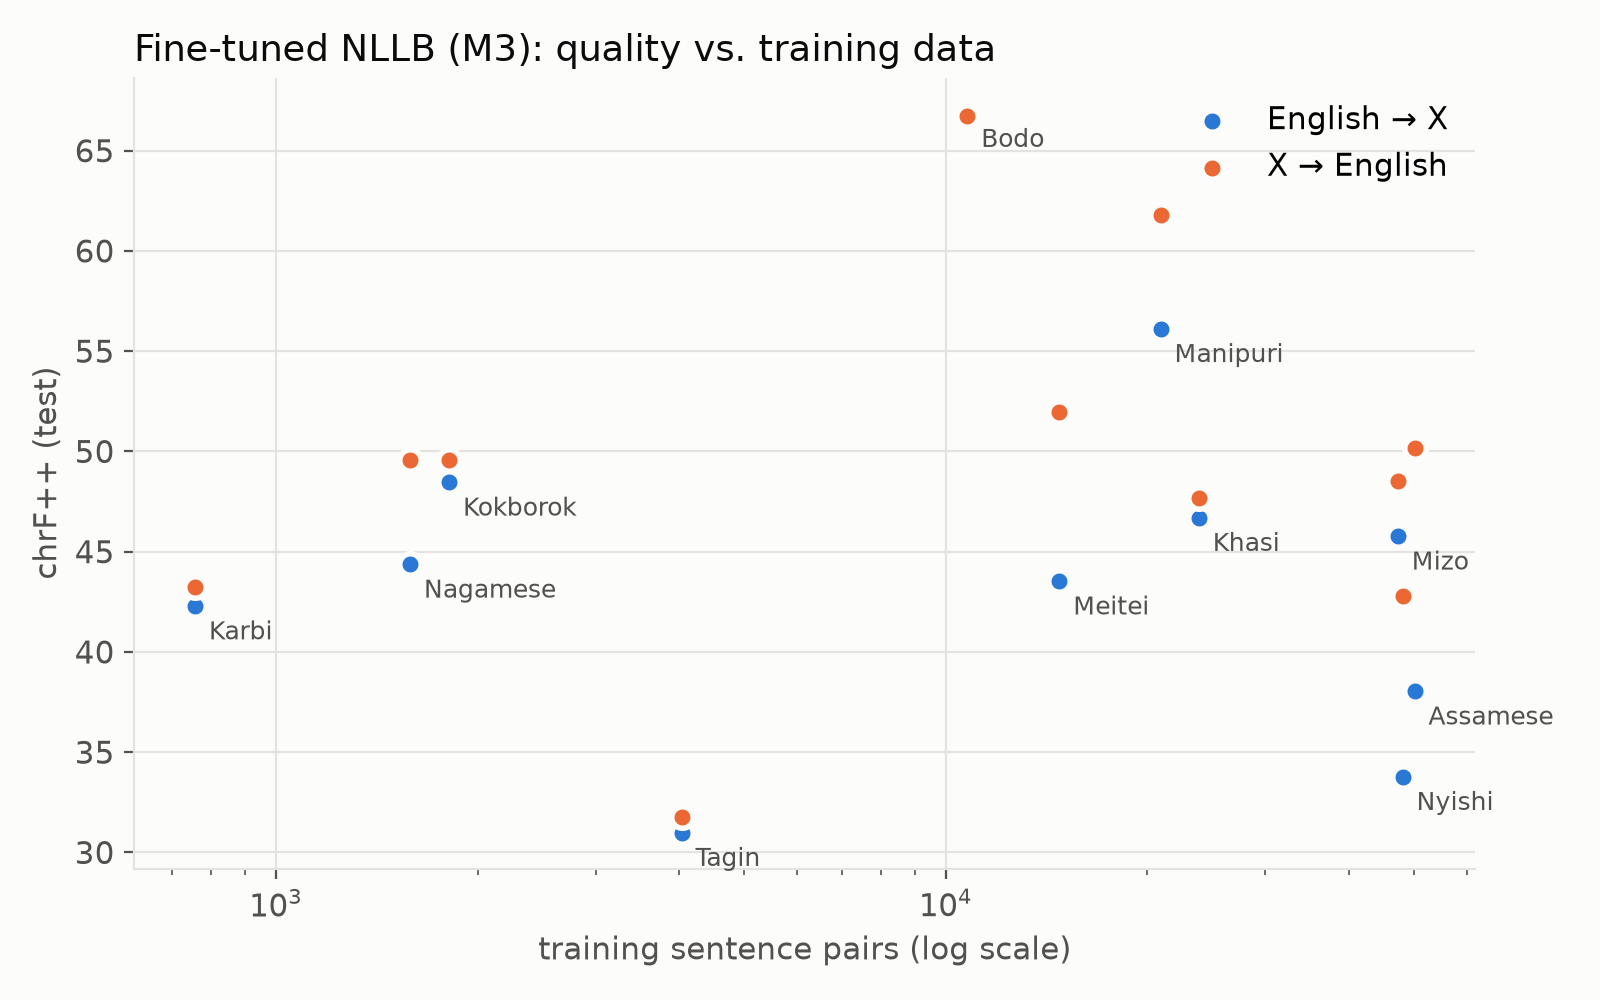
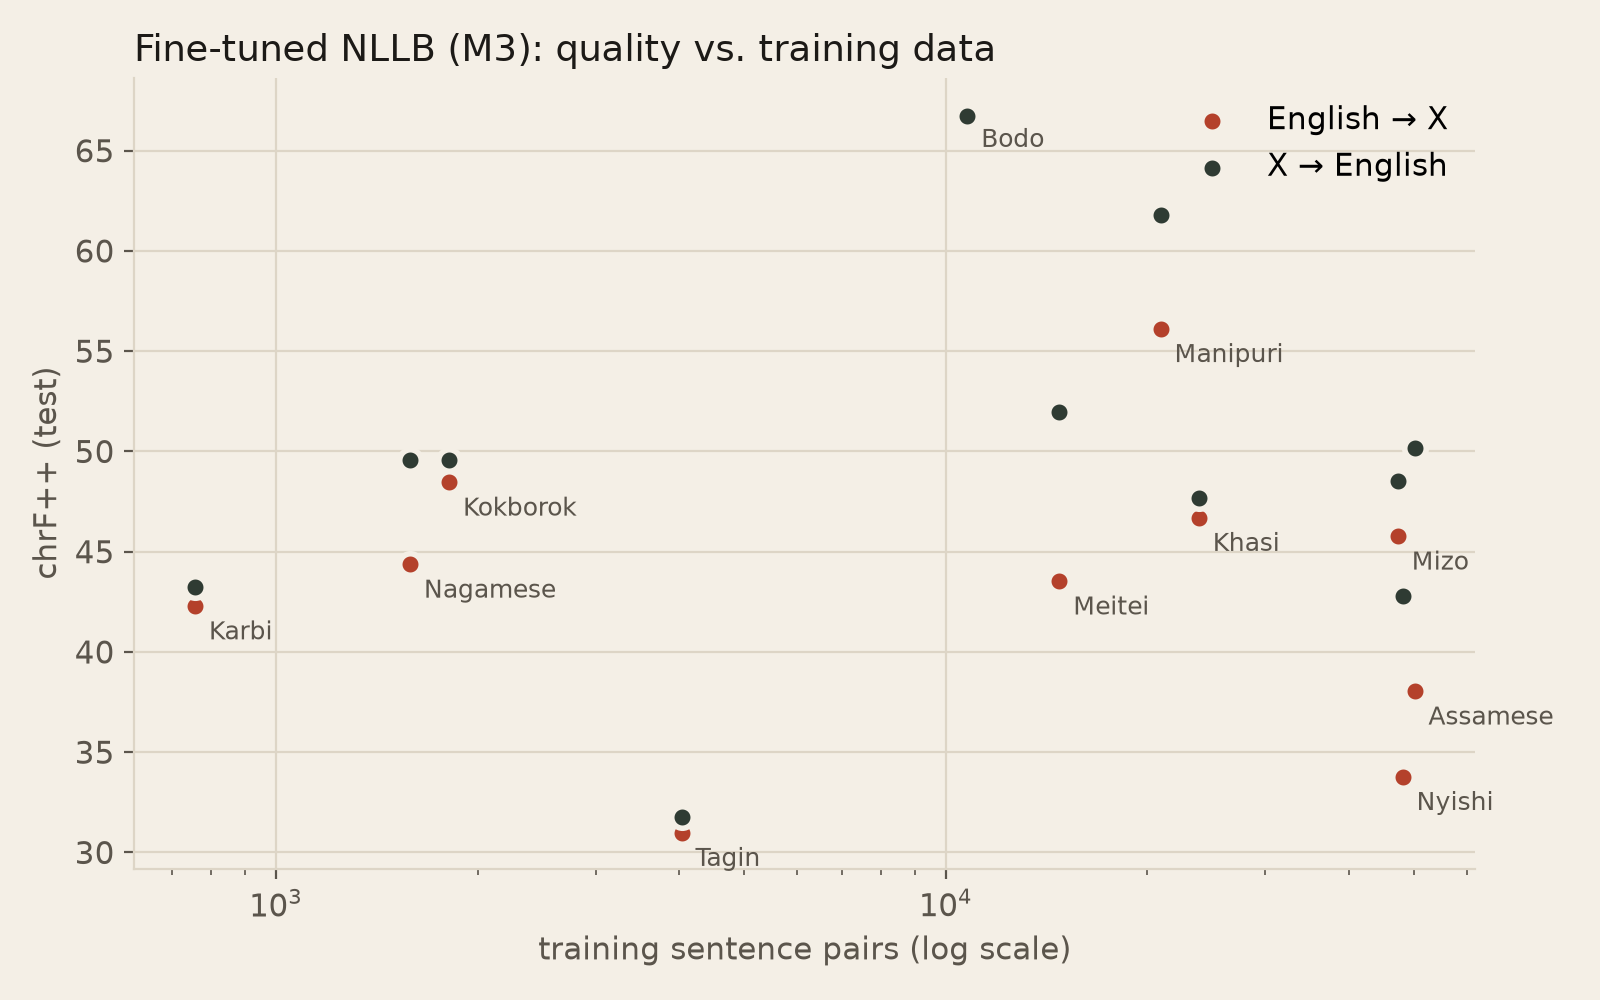
Recolor charts to match presentation palette

diff --git a/src/analyze.py b/src/analyze.py
@@ -16,9 +16,9 @@ R = ROOT / "results"
 FIG = R / "figures"
 FIG.mkdir(parents=True, exist_ok=True)
 
-# validated categorical slots 1-3 (dataviz reference palette, light mode) + recessive ink
-C1, C2, C3 = "#2a78d6", "#eb6834", "#1baf7a"
-INK, INK2, GRID, SURF = "#0b0b0b", "#52514e", "#e4e3df", "#fcfcfb"
+# deck palette: vermilion (main system), near-black green, warm khaki; warm paper surface
+C1, C2, C3 = "#B4412B", "#2F3B33", "#A89F86"
+INK, INK2, GRID, SURF = "#1C1A17", "#5B554C", "#DDD5C6", "#F4EFE6"
 NAMES = {"as": "Assamese", "njz": "Nyishi", "lus": "Mizo", "kha": "Khasi", "mni": "Manipuri",
          "mtei": "Meitei", "brx": "Bodo", "tgj": "Tagin", "trp": "Kokborok", "nag": "Nagamese", "mjw": "Karbi"}
 plt.rcParams.update({"font.size": 11, "axes.edgecolor": GRID, "axes.labelcolor": INK2, "xtick.color": INK2,
